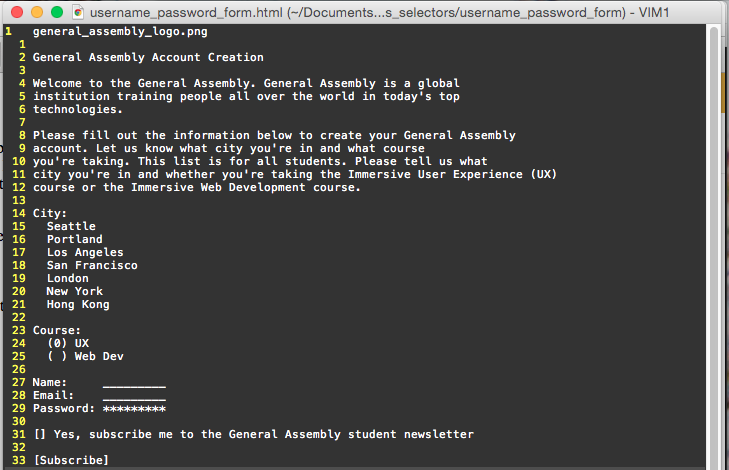
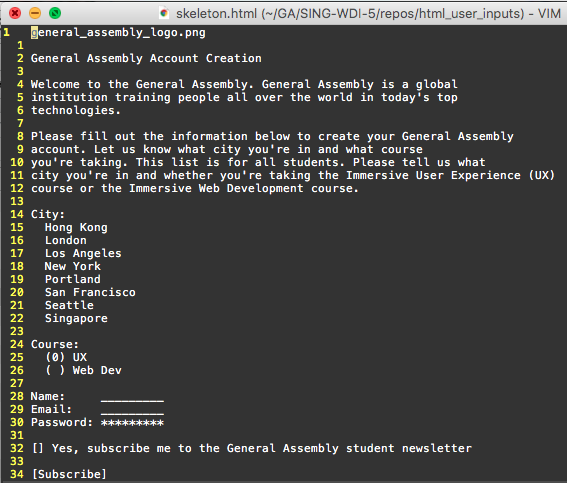
adding singapore

Changed region(s): [[0.0, 0.0, 1.0, 1.0]]

diff --git a/skeleton.html b/skeleton.html
@@ -13,13 +13,14 @@ city you're in and whether you're taking the Immersive User Experience (UX)
 course or the Immersive Web Development course. 
 
 City:
-  Seattle
-  Portland
-  Los Angeles
-  San Francisco
-  London
-  New York
   Hong Kong
+  London
+  Los Angeles
+  New York
+  Portland
+  San Francisco
+  Seattle
+  Singapore
 
 Course:
   (0) UX
